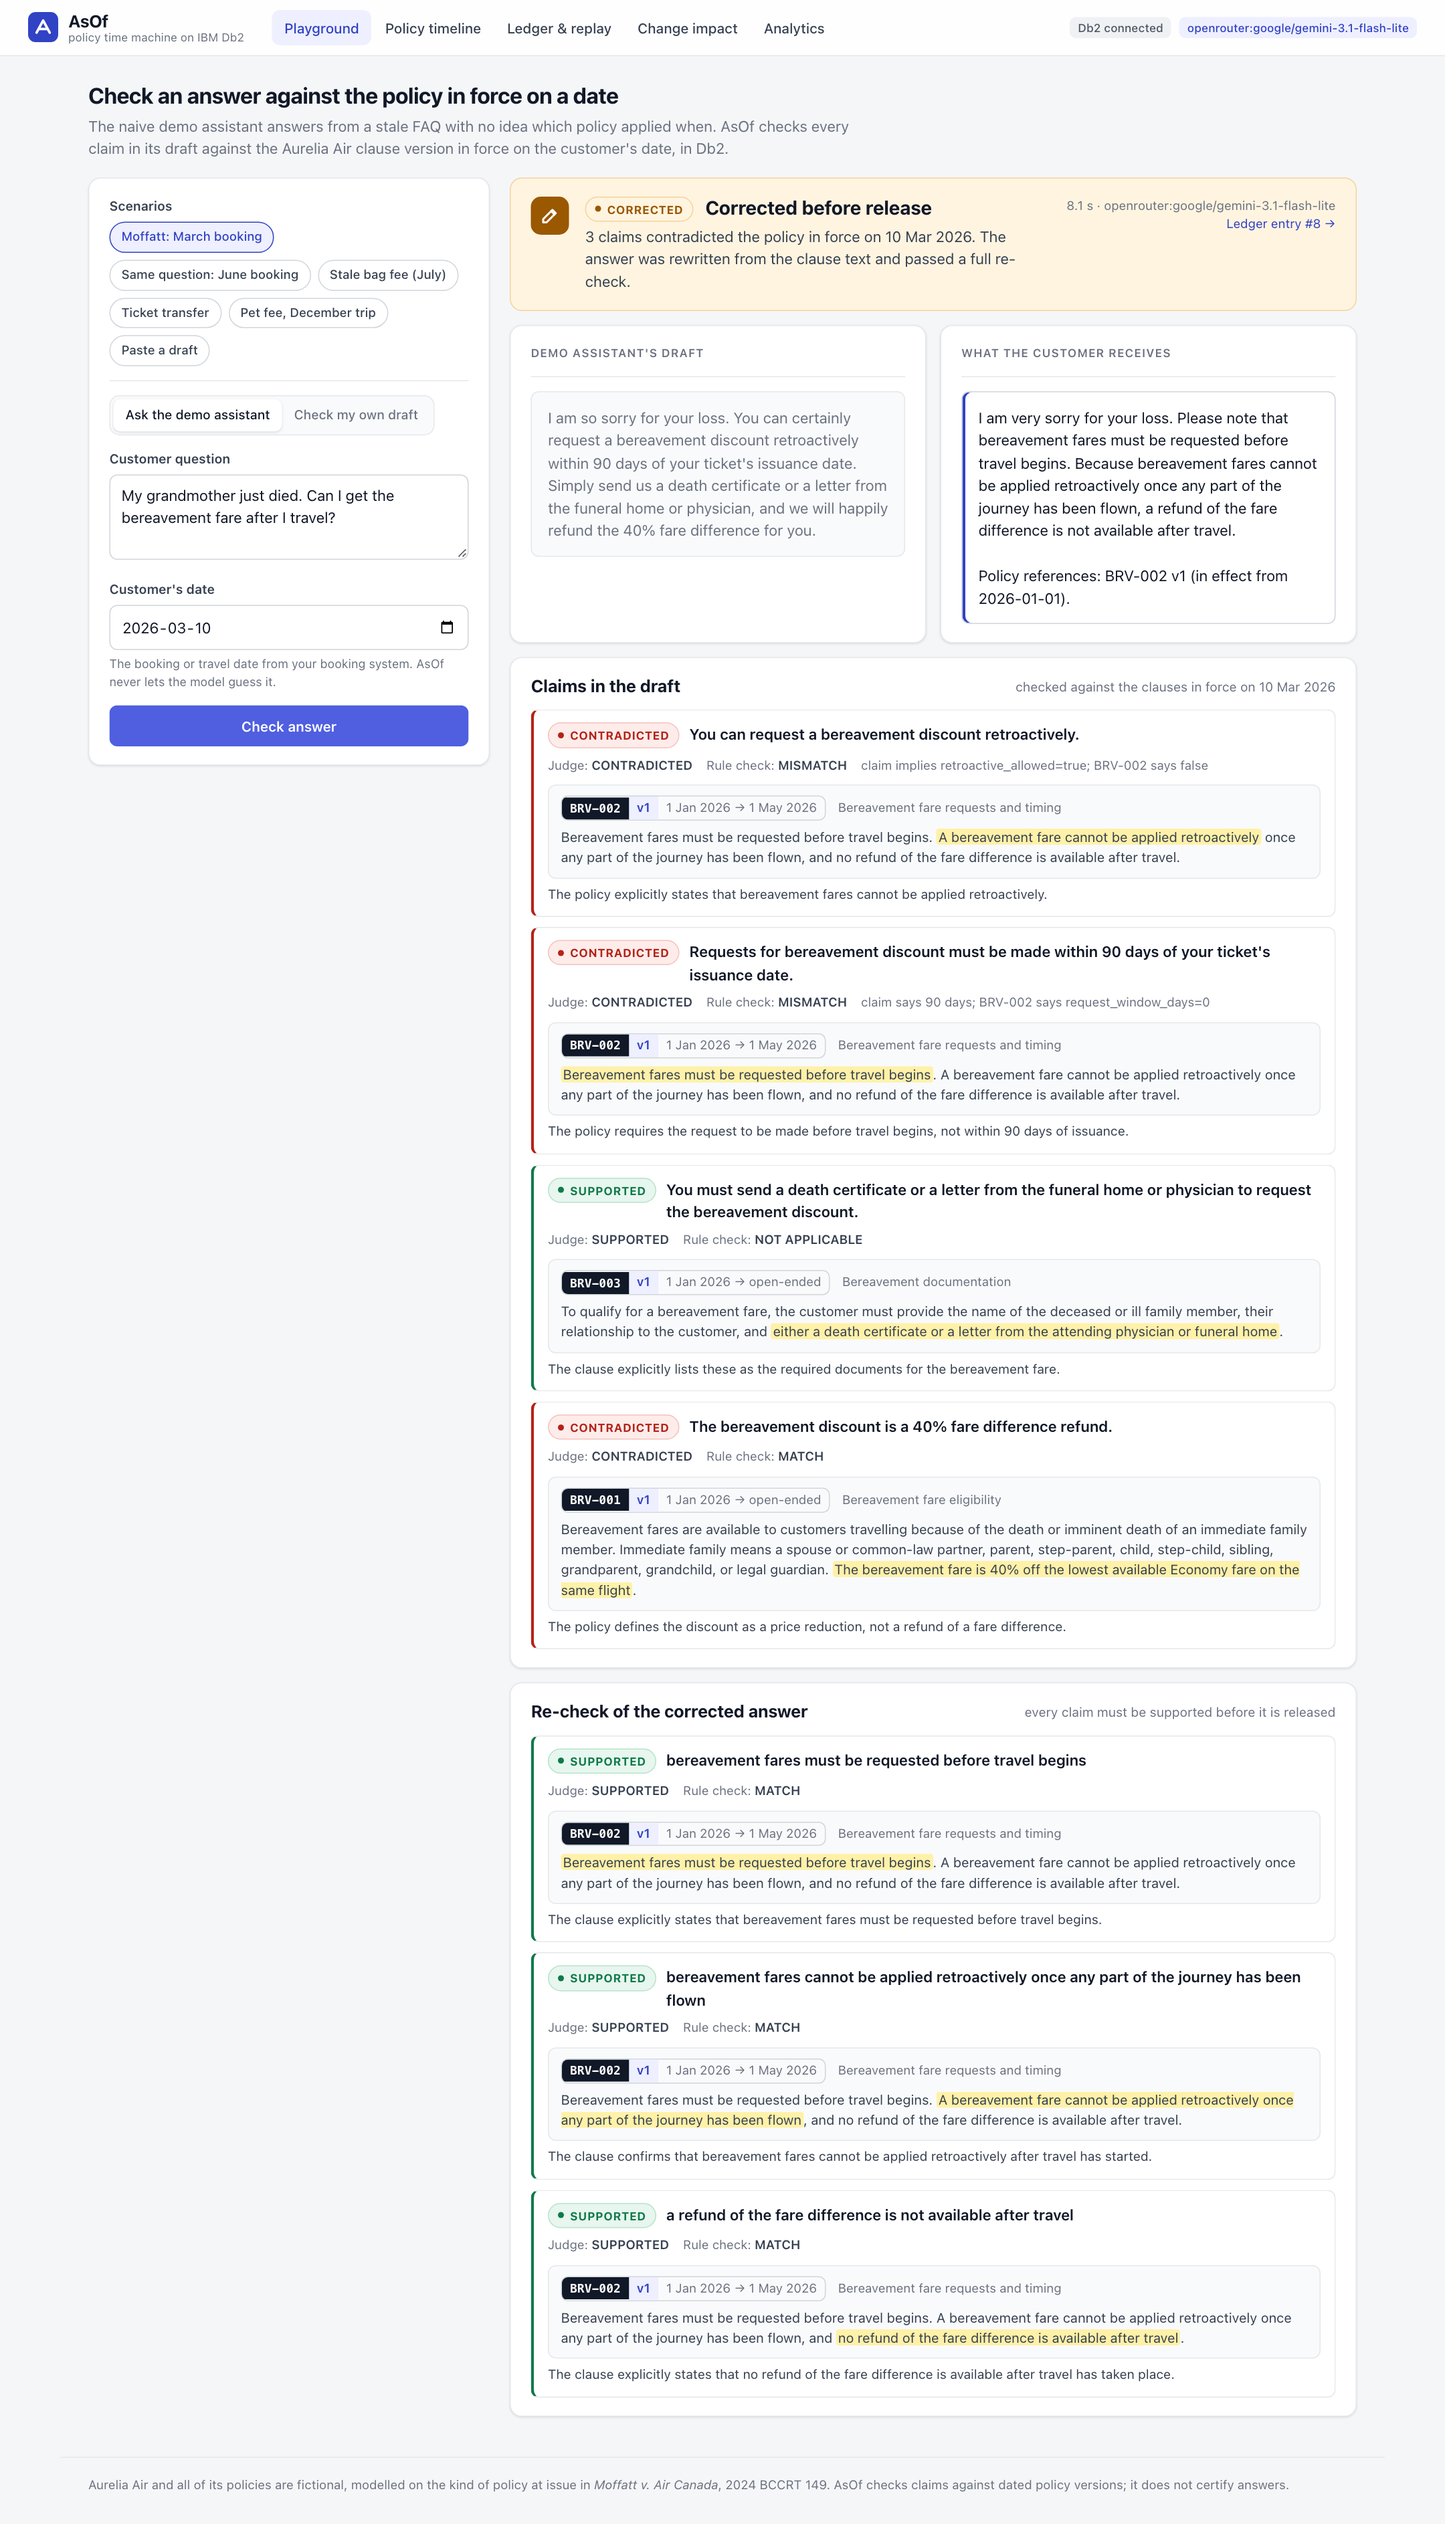
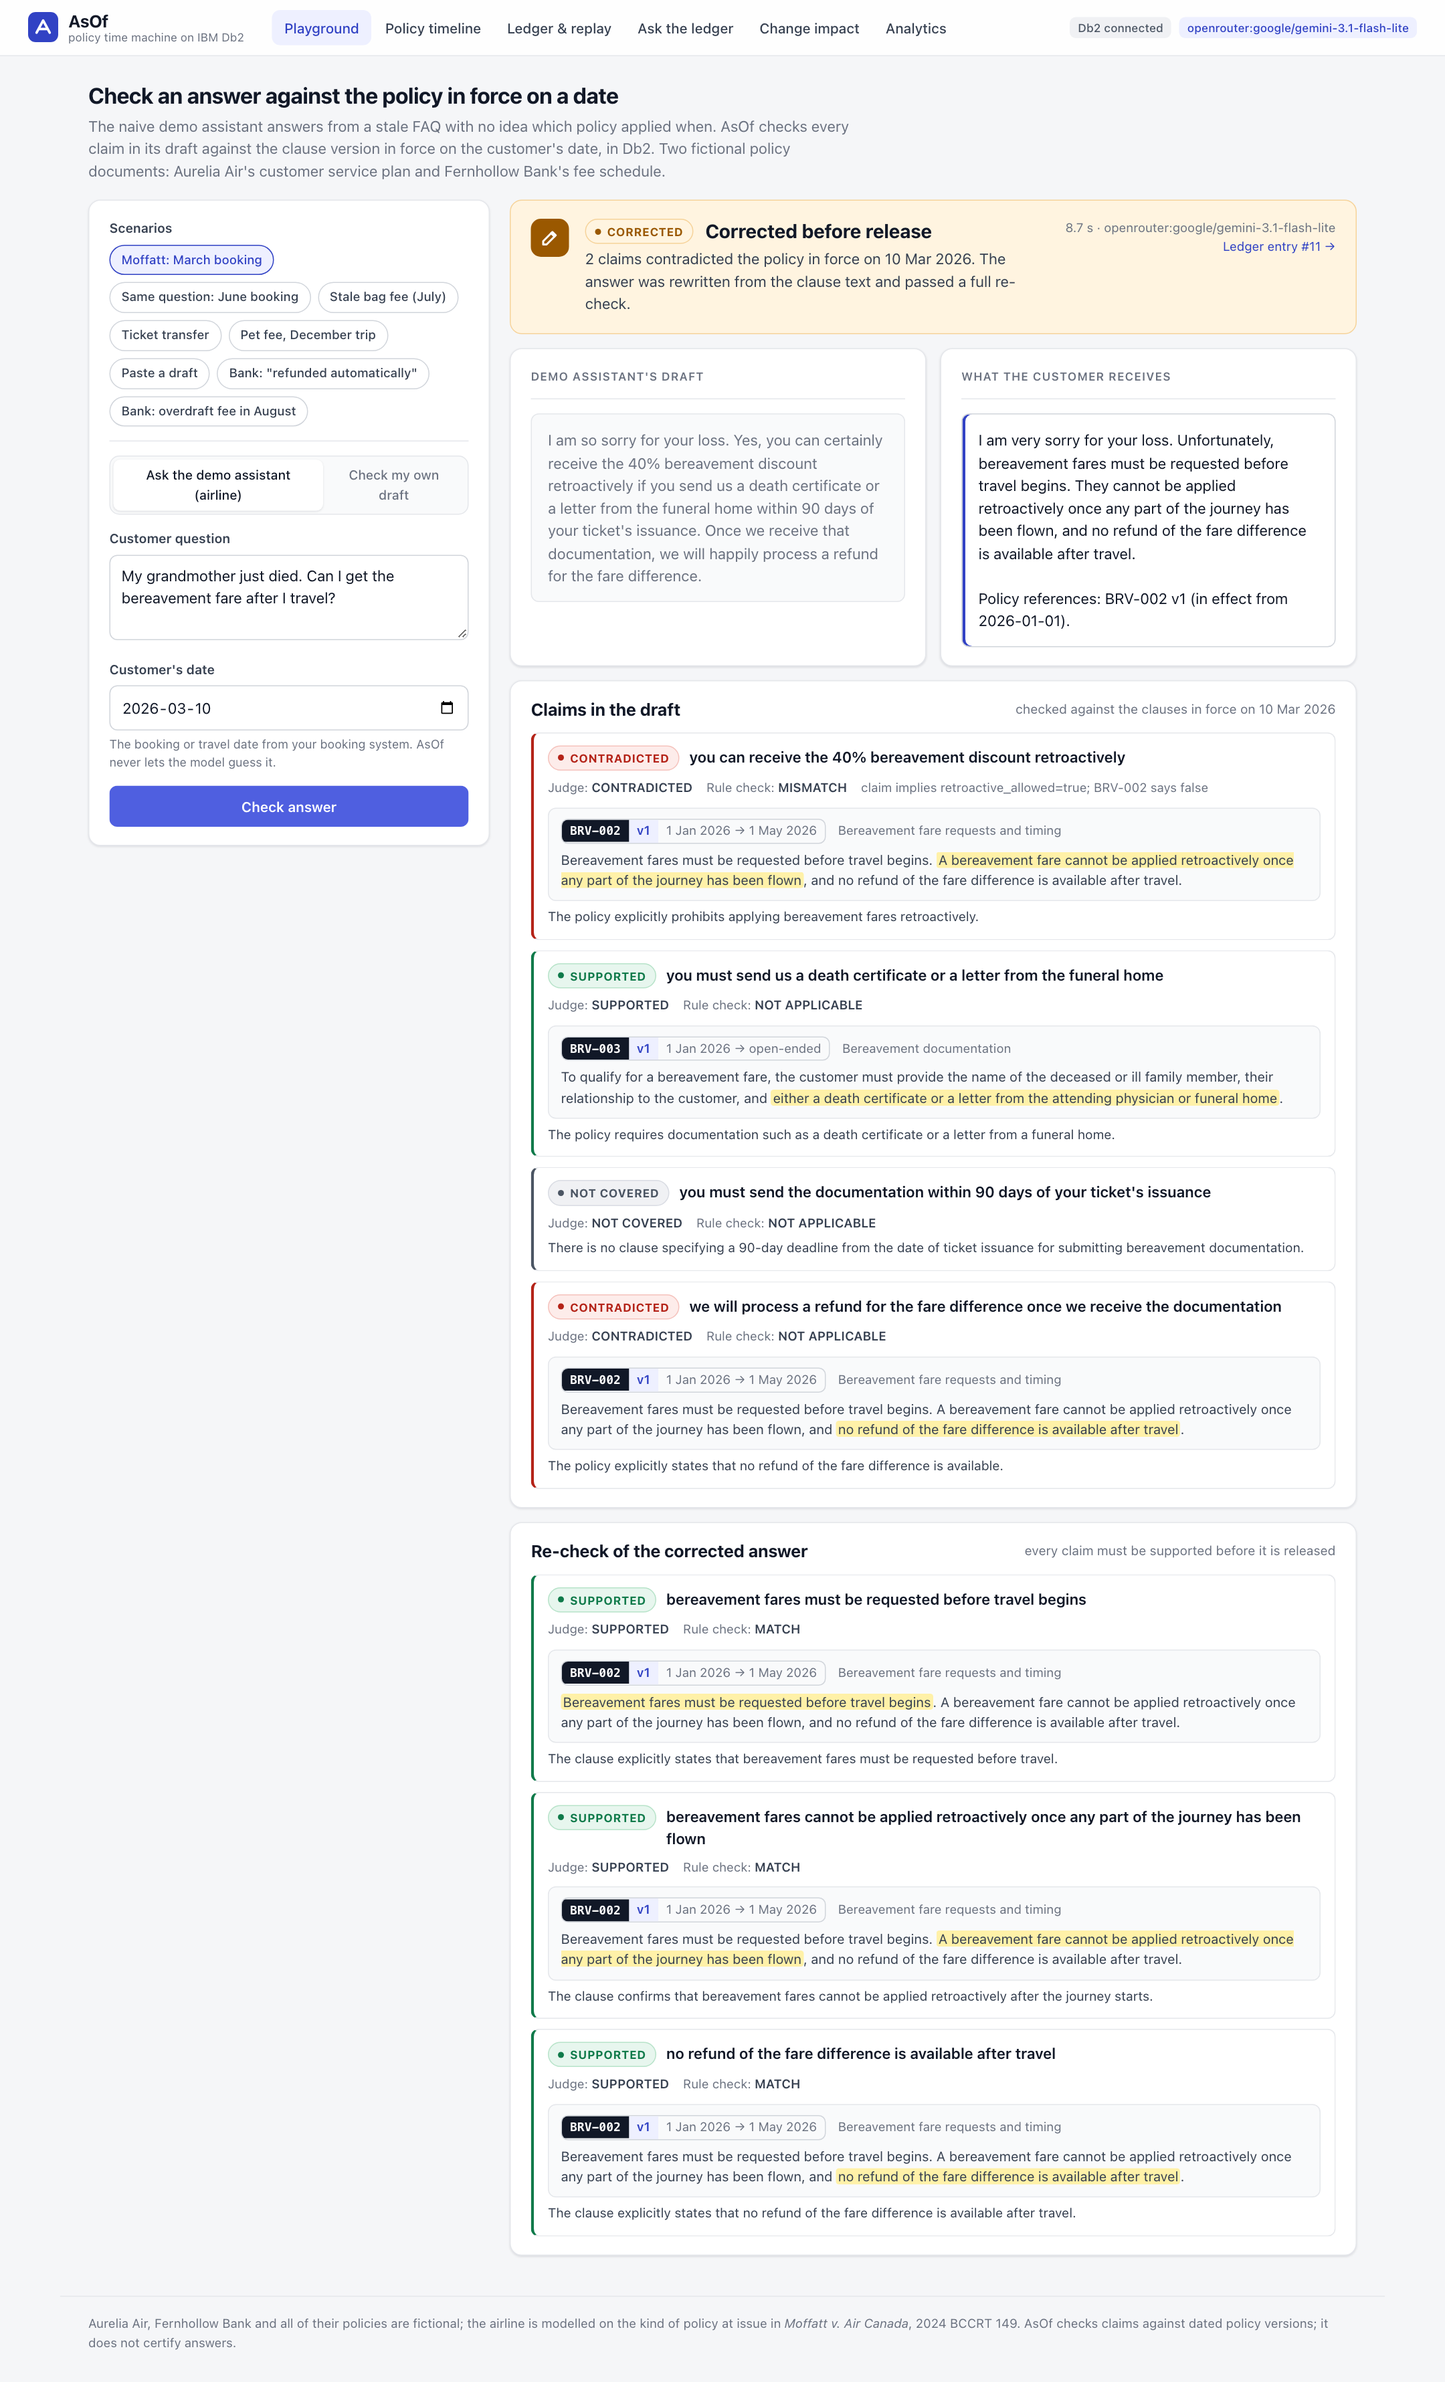
docs(asof): refresh screenshots from a clean demo run, both domains included
Thirteen screens: Ask the ledger with masked text, the bank's case and
timeline, the agent's drafted correction and its approval. The UI footer now
names both fictional companies.

Changed region(s): [[0.062, 0.0312, 0.9306, 0.9351], [0.062, 0.9663, 0.1861, 0.9975]]

diff --git a/src/asof/ui/index.html b/src/asof/ui/index.html
@@ -28,8 +28,8 @@
   </header>
   <main id="view" tabindex="-1"></main>
   <footer class="foot">
-    Aurelia Air and all of its policies are fictional, modelled on the kind of policy at issue in
-    <em>Moffatt v. Air Canada</em>, 2024 BCCRT 149. AsOf checks claims against dated policy versions; it does not certify answers.
+    Aurelia Air, Fernhollow Bank and all of their policies are fictional; the airline is modelled on the kind of policy at
+    issue in <em>Moffatt v. Air Canada</em>, 2024 BCCRT 149. AsOf checks claims against dated policy versions; it does not certify answers.
   </footer>
   <script type="module" src="app.js"></script>
 </body>

diff --git a/README.md b/README.md
@@ -528,12 +528,18 @@ The two misses were both escalations instead of corrections. **BT10:** the judge
 | **Policy timeline** | Every clause version on its business-time period, with its key rule parameter read out of `RULE_JSON` by a Db2 view (`$35` then `$40`, "before travel only" then "retroactive, 90 days"). Move the as-of date; click a version for its text, rule JSON and its system-time history: every row Db2 has held, when, and which user changed it. |
 | **Ledger and replay** | Every decision, a one-click `VERIFY_CHAIN`, and per entry the replay: the clause row the decision used, what Db2 held at that moment (`FOR SYSTEM_TIME AS OF`), and what applies today for that customer date (`FOR BUSINESS_TIME AS OF`), with the SQL. |
 | **Change impact** | Apply a new clause version as `asofedit` (presets included), then see which released answers are now stale, which are still right for their date, and which help-centre answers need review and from when. **Draft corrections with the agent** writes a fix for each help-centre answer that needs review, after looking up related clauses in Db2, and runs it through the full check; **Approve and publish** splits the answer in time, so the old text keeps the dates before the change. |
+| **Ask the ledger** | Plain-English questions about the audit trail, answered as the read-only analyst `asofread`: the answer, the SQL that ran (regenerated by SQLGlot) and the rows, with the customer's question and our reply shown as Db2's `[masked]`. |
 | **Analytics** | Decisions, claims by area and rule-check overrides, from Db2 views. |
+
+Both policy documents run through the same screens: the playground has two bank scenarios, and the timeline switches between Aurelia Air and Fernhollow Bank.
 
 | | |
 |---|---|
 | ![Policy timeline](docs/screenshots/02-policy-timeline.png) | ![Change impact after raising the pet fee from 1 Dec 2026](docs/screenshots/04-change-impact.png) |
 | ![Replay of a December pet answer after the fee change](docs/screenshots/05-replay-after-change.png) | ![Timeline and system-time history after the change](docs/screenshots/06-timeline-after-change.png) |
+| ![The change-impact agent's drafted correction, checked and waiting for the editor](docs/screenshots/12-drafted-correction.png) | ![The correction approved: the help-centre answer split in time](docs/screenshots/13-correction-approved.png) |
+| ![Ask the ledger as the read-only analyst: decisions visible, customer text masked by Db2](docs/screenshots/09-ask-the-ledger.png) | ![The bank's Moffatt case: "refunded automatically", corrected from FRV-001 v1](docs/screenshots/10-bank-playground.png) |
+| ![Fernhollow Bank's fee schedule on the policy timeline](docs/screenshots/11-bank-timeline.png) | ![Audit ledger with the chain verified](docs/screenshots/07-ledger.png) |
 
 **The change-impact story in four clicks:** run `python -m asof.demo` (it records pet-fee answers for a November and a December trip), open **Change impact**, choose the preset "Pet fee to $125 from 1 Dec 2026", and apply it. Db2 splits PET-001 into v1 (to 1 Dec) and v2 (from 1 Dec) with `FOR PORTION OF BUSINESS_TIME`. `CHANGE_IMPACT` reports the November answer as historically valid, the December answer as stale (the customer was told $100 for a trip that now costs $125), and help-centre answer PA-PET-001 as needing review from 1 Dec 2026. Replay on the December entry shows all three states side by side.
 
